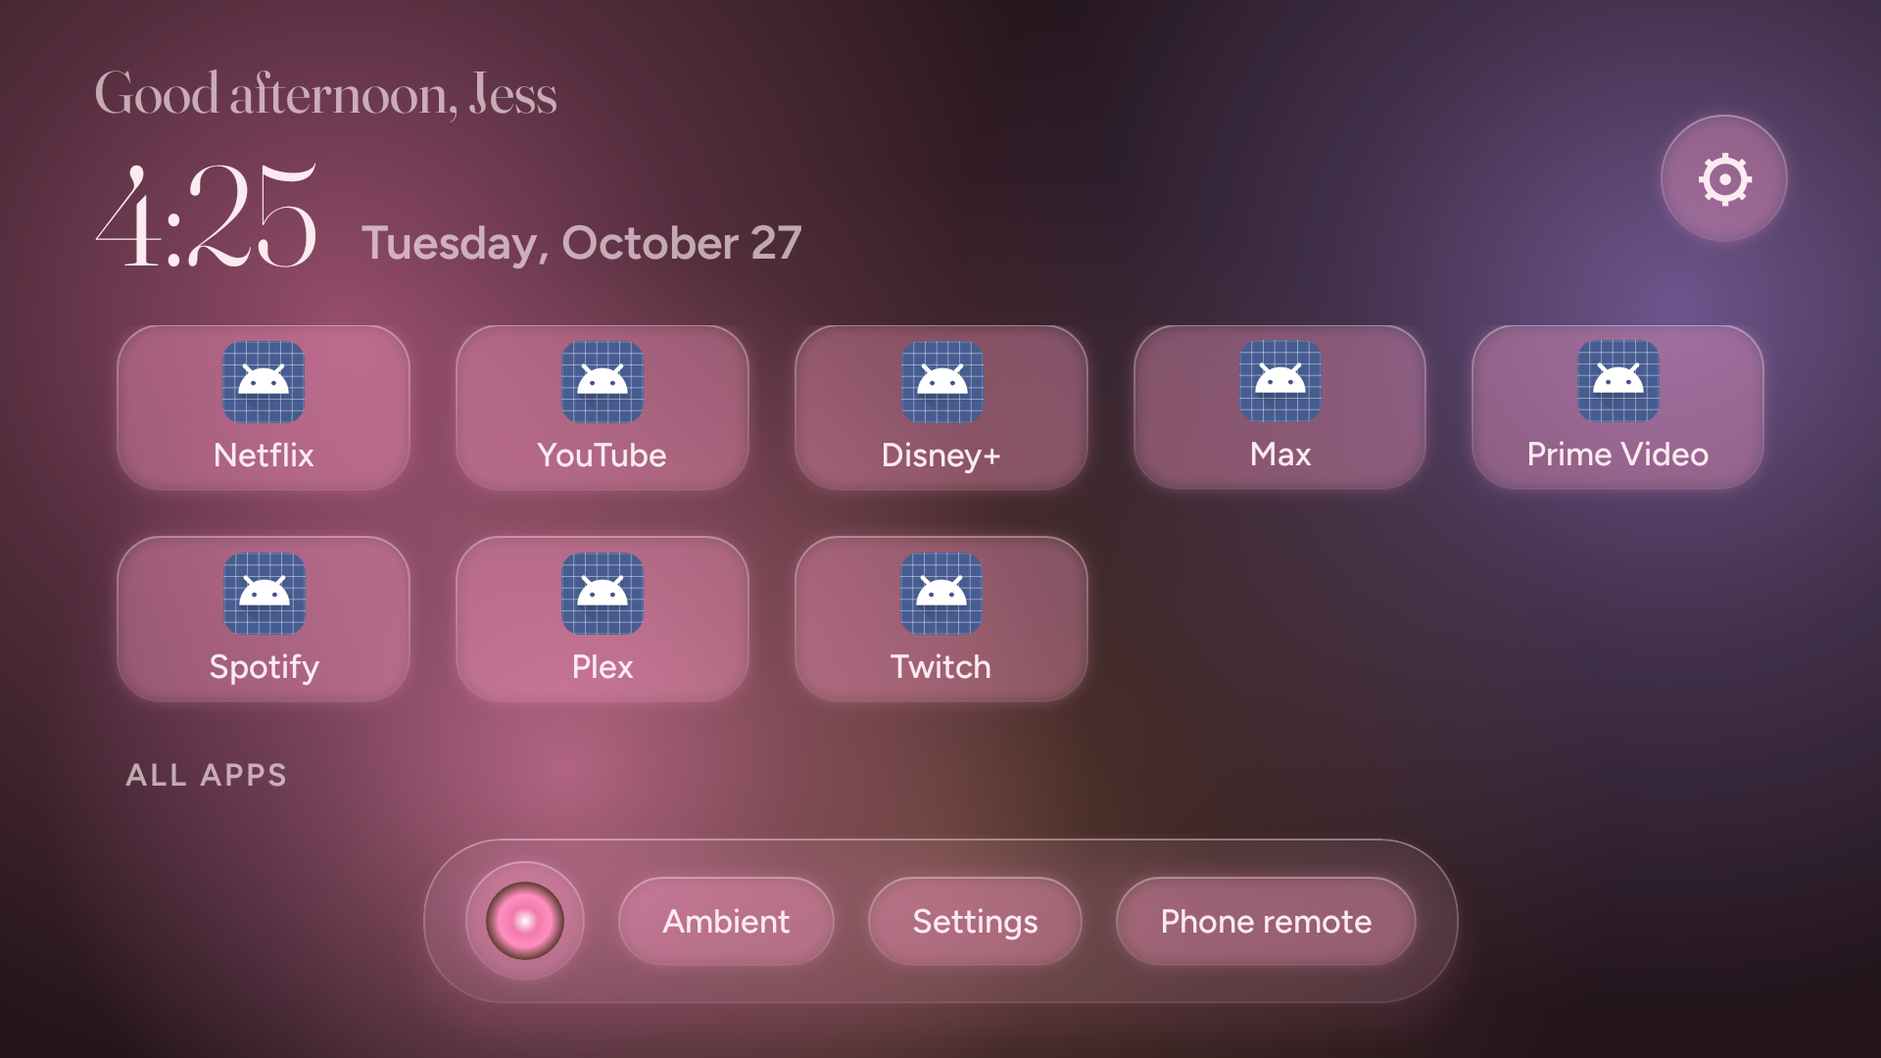
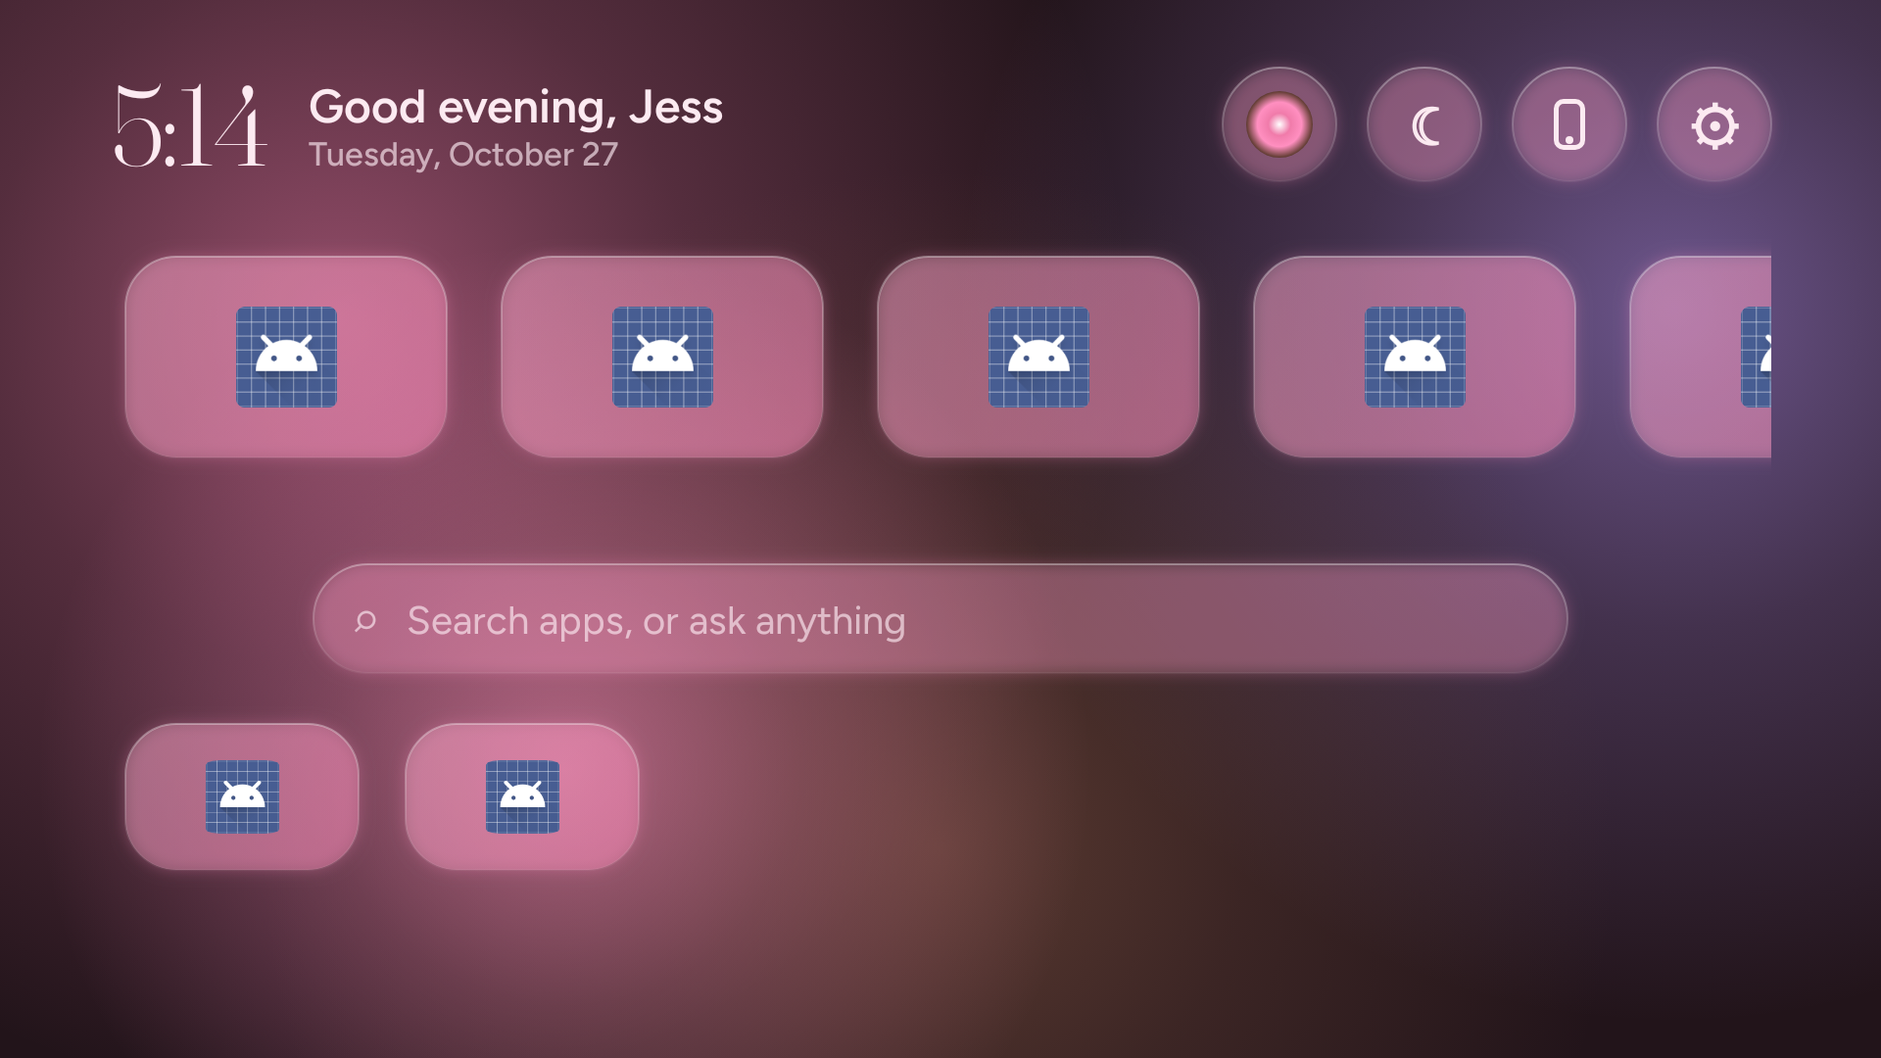
Apple TV-style home: favorite tile row, search bar underneath, control cluster
- Row of large rounded tvOS tiles; label fades in under the focused tile
- Frosted capsule search bar: live app filter, OK launches the single
  match or asks the assistant
- Remaining apps in a grid below; dock replaced by top-right controls
- Fix: initial D-pad focus (LazyRow rejected requestFocus; plain Row)
- Screenshot test now asserts the home screen opens with a tile focused

Claude-Session: https://claude.ai/code/session_01TrDrfaGBXmhcSbtgf3129r

diff --git a/app/src/main/java/dev/glasstv/launcher/ui/screens/LauncherRoot.kt b/app/src/main/java/dev/glasstv/launcher/ui/screens/LauncherRoot.kt
@@ -8,6 +8,7 @@ import androidx.compose.animation.slideInHorizontally
 import androidx.compose.animation.slideOutHorizontally
 import androidx.compose.foundation.Image
 import androidx.compose.foundation.background
+import androidx.compose.foundation.border
 import androidx.compose.foundation.layout.Arrangement
 import androidx.compose.foundation.layout.Box
 import androidx.compose.foundation.layout.Column
@@ -39,6 +40,11 @@ import androidx.compose.ui.Alignment
 import androidx.compose.ui.ExperimentalComposeUiApi
 import androidx.compose.ui.Modifier
 import androidx.compose.ui.draw.clip
+import androidx.compose.ui.focus.onFocusChanged
+import androidx.compose.ui.graphics.graphicsLayer
+import androidx.compose.foundation.horizontalScroll
+import androidx.compose.foundation.rememberScrollState
+import androidx.compose.runtime.key
 import androidx.compose.ui.focus.FocusRequester
 import androidx.compose.foundation.focusGroup
 import androidx.compose.ui.focus.focusProperties
@@ -158,6 +164,10 @@ fun LauncherRoot(app: GlassApp, ui: LauncherUi) {
     }
 }
 
+/**
+ * tvOS-style home: a row of large rounded app tiles (favorites), a frosted search bar underneath,
+ * then the rest of the apps. Controls live in a small cluster top-right instead of a dock.
+ */
 @OptIn(ExperimentalComposeUiApi::class)
 @Composable
 private fun HomeScreen(
@@ -173,105 +183,157 @@ private fun HomeScreen(
     val byPkg = remember(apps) { apps.associateBy { it.packageName } }
     val pinned = remember(pinnedPkgs, byPkg) { pinnedPkgs.mapNotNull { byPkg[it] } }
     val others = remember(pinnedPkgs, apps) { apps.filter { it.packageName !in pinnedPkgs } }
+    var query by remember { mutableStateOf("") }
+    val results = remember(query, apps) {
+        val q = query.trim().lowercase()
+        if (q.isEmpty()) emptyList() else apps.filter { it.label.lowercase().contains(q) }
+            .sortedBy { if (it.label.lowercase().startsWith(q)) 0 else 1 }
+    }
     val scope = rememberCoroutineScope()
     val gridState = rememberLazyGridState()
     val firstTile = remember { FocusRequester() }
-    var initialFocusDone by remember { mutableStateOf(false) }
 
     LaunchedEffect(apps.isNotEmpty(), interactive) {
-        if (apps.isNotEmpty() && interactive) {
-            delay(32)
-            runCatching { firstTile.requestFocus() }
-            initialFocusDone = true
-        }
+        // The row's first item may not be composed on the first frame; retry briefly.
+        if (apps.isNotEmpty() && interactive) repeat(10) { delay(50); if (runCatching { firstTile.requestFocus() }.getOrDefault(false)) return@LaunchedEffect }
     }
     LaunchedEffect(ui.homeTick) {
-        if (ui.homeTick > 0) { gridState.scrollToItem(0); runCatching { firstTile.requestFocus() } }
+        if (ui.homeTick > 0) { query = ""; gridState.scrollToItem(0); runCatching { firstTile.requestFocus() } }
     }
-
     fun togglePin(pkg: String) = scope.launch {
         app.settingsRepo.setPinned(if (pkg in pinnedPkgs) pinnedPkgs - pkg else pinnedPkgs + pkg)
+    }
+    fun submitSearch(q: String) {
+        val text = q.trim()
+        if (text.isEmpty()) return
+        val hits = apps.filter { it.label.lowercase().contains(text.lowercase()) }
+        if (hits.size == 1) { app.appRepo.launch(hits.first()); query = "" }
+        else { ui.aiOpen = true; app.assistant.send(text); query = "" }
     }
 
     Column(
         modifier
-            // While an overlay is up, D-pad focus can't wander back into the grid behind it.
-            .focusProperties { onEnter = { if (!interactive) cancelFocusChange() } }
+            // While an overlay is up, D-pad focus can't wander back into the home screen behind it.
+            .then(if (interactive) Modifier else Modifier.focusProperties { onEnter = { cancelFocusChange() } })
             .focusGroup()
-            .padding(horizontal = 48.dp, vertical = 28.dp)
+            .padding(horizontal = 56.dp, vertical = 28.dp)
     ) {
-        TopBar(settings, now, onSettings = { ui.settingsOpen = true })
-        Spacer(Modifier.height(12.dp))
-        LazyVerticalGrid(
-            columns = GridCells.Fixed(5),
-            state = gridState,
-            modifier = Modifier.weight(1f).fillMaxWidth(),
-            contentPadding = androidx.compose.foundation.layout.PaddingValues(horizontal = 12.dp, vertical = 20.dp),
-            horizontalArrangement = Arrangement.spacedBy(24.dp),
-            verticalArrangement = Arrangement.spacedBy(24.dp),
+        TopBar(settings, now, ui)
+        Spacer(Modifier.height(18.dp))
+
+        // Top row: favorites as big tvOS tiles (falls back to all apps if nothing is pinned).
+        val topRow = (if (pinned.isNotEmpty()) pinned else others).take(12)
+        // A plain scrolling Row (≤12 tiles): LazyRow rejected programmatic initial focus on its items.
+        Row(
+            horizontalArrangement = Arrangement.spacedBy(28.dp),
+            modifier = Modifier.fillMaxWidth().horizontalScroll(rememberScrollState())
+                .padding(horizontal = 8.dp, vertical = 14.dp),
         ) {
-            if (pinned.isNotEmpty()) {
-                item(span = { GridItemSpan(maxLineSpan) }, key = "h_fav", contentType = "header") { SectionHeader("FAVORITES") }
-                items(pinned, key = { "p_" + it.packageName }, contentType = { "tile" }) { a ->
-                    val mod = if (a == pinned.first()) Modifier.focusRequester(firstTile) else Modifier
-                    AppTile(app, a, mod, onLongClick = { togglePin(a.packageName) })
-                }
-            }
-            if (others.isNotEmpty()) {
-                item(span = { GridItemSpan(maxLineSpan) }, key = "h_all", contentType = "header") {
-                    SectionHeader(if (pinned.isEmpty()) "APPS" else "ALL APPS")
-                }
-                items(others, key = { "a_" + it.packageName }, contentType = { "tile" }) { a ->
-                    val mod = if (pinned.isEmpty() && a == others.first()) Modifier.focusRequester(firstTile) else Modifier
-                    AppTile(app, a, mod, onLongClick = { togglePin(a.packageName) })
-                }
+            topRow.forEach { a ->
+                key(a.packageName) { AppTile(
+                    app, a,
+                    Modifier.width(164.dp),
+                    focus = if (a == topRow.first()) firstTile else null,
+                    onLongClick = { togglePin(a.packageName) },
+                ) }
             }
         }
-        Dock(ui, Modifier.align(Alignment.CenterHorizontally))
+
+        Spacer(Modifier.height(6.dp))
+        SearchBar(
+            query = query,
+            onQuery = { query = it },
+            onSubmit = ::submitSearch,
+            modifier = Modifier.align(Alignment.CenterHorizontally).width(640.dp),
+        )
+        Spacer(Modifier.height(10.dp))
+
+        val gridApps = if (query.isNotBlank()) results else (if (pinned.isNotEmpty()) others else others.drop(12))
+        LazyVerticalGrid(
+            columns = GridCells.Fixed(6),
+            state = gridState,
+            modifier = Modifier.weight(1f).fillMaxWidth(),
+            contentPadding = androidx.compose.foundation.layout.PaddingValues(horizontal = 8.dp, vertical = 16.dp),
+            horizontalArrangement = Arrangement.spacedBy(24.dp),
+            verticalArrangement = Arrangement.spacedBy(8.dp),
+        ) {
+            if (query.isNotBlank() && results.isEmpty()) {
+                item(span = { GridItemSpan(maxLineSpan) }, key = "noresults") {
+                    GlassText(
+                        "No apps match \"${query.trim()}\". Press OK on the search bar to ask the assistant.",
+                        GlassType.body, Modifier.padding(8.dp), color = LocalGlass.current.textSoft,
+                    )
+                }
+            }
+            items(gridApps, key = { "g_" + it.packageName }, contentType = { "tile" }) { a ->
+                AppTile(app, a, Modifier.fillMaxWidth(), onLongClick = { togglePin(a.packageName) })
+            }
+        }
     }
 }
 
 @Composable
-private fun SectionHeader(text: String) {
-    GlassText(text, GlassType.section, Modifier.padding(start = 4.dp, top = 4.dp), color = LocalGlass.current.textSoft)
-}
-
-@Composable
-private fun TopBar(settings: Settings, now: LocalDateTime, onSettings: () -> Unit) {
+private fun TopBar(settings: Settings, now: LocalDateTime, ui: LauncherUi) {
     val c = LocalGlass.current
     val greeting = when (now.hour) { in 5..11 -> "Good morning"; in 12..16 -> "Good afternoon"; in 17..21 -> "Good evening"; else -> "Good night" }
     val weather = rememberWeather(settings)
     Row(Modifier.fillMaxWidth(), verticalAlignment = Alignment.CenterVertically) {
         Column(Modifier.weight(1f)) {
-            GlassText(
-                if (settings.greetingName.isBlank()) greeting else "$greeting, ${settings.greetingName}",
-                GlassType.greeting, color = c.textSoft, maxLines = 1,
-            )
             Row(verticalAlignment = Alignment.Bottom) {
-                GlassText(now.format(DateTimeFormatter.ofPattern("h:mm")), GlassType.clock, maxLines = 1)
-                Spacer(Modifier.width(20.dp))
-                GlassText(
-                    now.format(DateTimeFormatter.ofPattern("EEEE, MMMM d")), GlassType.title,
-                    Modifier.padding(bottom = 16.dp), color = c.textSoft, maxLines = 1,
-                )
-            }
-        }
-        if (weather != null) {
-            GlassPanel(padding = androidx.compose.foundation.layout.PaddingValues(horizontal = 24.dp, vertical = 14.dp)) {
-                Row(verticalAlignment = Alignment.CenterVertically) {
-                    GlassText(weather.glyph, GlassType.title.copy(fontSize = GlassType.clock.fontSize * 0.45f))
-                    Spacer(Modifier.width(14.dp))
-                    Column {
-                        GlassText("${weather.temp}°", GlassType.title)
-                        GlassText(listOf(weather.description, settings.weatherPlace.substringBefore(',')).filter { it.isNotBlank() }.joinToString(" · "), GlassType.small, color = c.textSoft, maxLines = 1)
-                    }
+                GlassText(now.format(DateTimeFormatter.ofPattern("h:mm")), GlassType.clock.copy(fontSize = GlassType.clock.fontSize * 0.8f), maxLines = 1)
+                Spacer(Modifier.width(18.dp))
+                Column(Modifier.padding(bottom = 10.dp)) {
+                    GlassText(
+                        if (settings.greetingName.isBlank()) greeting else "$greeting, ${settings.greetingName}",
+                        GlassType.title, maxLines = 1,
+                    )
+                    GlassText(
+                        listOfNotNull(
+                            now.format(DateTimeFormatter.ofPattern("EEEE, MMMM d")),
+                            weather?.let { "${it.glyph} ${it.temp}° ${it.description}" },
+                        ).joinToString("   ·   "),
+                        GlassType.label, color = c.textSoft, maxLines = 1,
+                    )
                 }
             }
-            Spacer(Modifier.width(20.dp))
         }
-        GlassButton(onClick = onSettings, shape = CircleShape, modifier = Modifier.size(64.dp)) {
-            GlassText("⚙", GlassType.title.copy(fontSize = GlassType.title.fontSize * 1.3f))
+        // Control cluster (replaces the dock): assistant · ambient · phone remote · settings.
+        Row(horizontalArrangement = Arrangement.spacedBy(16.dp), verticalAlignment = Alignment.CenterVertically) {
+            GlassButton(onClick = { ui.aiOpen = true }, shape = CircleShape, modifier = Modifier.size(58.dp)) {
+                Box(Modifier.size(34.dp).background(Brush.radialGradient(listOf(Color.White, c.pink, c.rose, c.cocoa)), CircleShape))
+            }
+            CircleIcon("☾") { ui.ambient = true }
+            GlassButton(onClick = { ui.qrOpen = true }, shape = CircleShape, modifier = Modifier.size(58.dp)) {
+                // Phone glyph drawn in-palette (the unicode options render inconsistently on TV fonts).
+                Box(Modifier.size(16.dp, 26.dp).border(2.5.dp, c.text, RoundedCornerShape(5.dp)), contentAlignment = Alignment.BottomCenter) {
+                    Box(Modifier.padding(bottom = 3.dp).size(4.dp).background(c.text, CircleShape))
+                }
+            }
+            CircleIcon("⚙") { ui.settingsOpen = true }
         }
+    }
+}
+
+@Composable
+private fun CircleIcon(glyph: String, onClick: () -> Unit) {
+    GlassButton(onClick = onClick, shape = CircleShape, modifier = Modifier.size(58.dp)) {
+        GlassText(glyph, GlassType.title.copy(fontSize = GlassType.title.fontSize * 1.15f))
+    }
+}
+
+/** Frosted capsule search bar, tvOS style. Typing filters apps live; OK/Enter launches or asks the assistant. */
+@Composable
+private fun SearchBar(query: String, onQuery: (String) -> Unit, onSubmit: (String) -> Unit, modifier: Modifier) {
+    val c = LocalGlass.current
+    Row(modifier, verticalAlignment = Alignment.CenterVertically) {
+        dev.glasstv.launcher.ui.components.GlassTextField(
+            value = query,
+            onCommit = { onSubmit(it) },
+            onChange = onQuery,
+            placeholder = "⌕   Search apps, or ask anything",
+            modifier = Modifier.weight(1f),
+            shape = RoundedCornerShape(50),
+        )
     }
 }
 
@@ -290,49 +352,45 @@ private fun rememberWeather(settings: Settings): Weather? {
     return weather
 }
 
+/** tvOS app tile: rounded artwork, label only appears under the focused tile. */
 @Composable
-private fun AppTile(app: GlassApp, tvApp: TvApp, modifier: Modifier, onLongClick: () -> Unit) {
+private fun AppTile(app: GlassApp, tvApp: TvApp, modifier: Modifier, onLongClick: () -> Unit, focus: FocusRequester? = null) {
     val c = LocalGlass.current
     var art by remember(tvApp.packageName) { mutableStateOf<AppArt?>(null) }
+    var focused by remember { mutableStateOf(false) }
     LaunchedEffect(tvApp.packageName) { art = app.appRepo.art(tvApp) }
-    GlassButton(
-        onClick = { app.appRepo.launch(tvApp) },
-        onLongClick = onLongClick,
-        modifier = modifier.fillMaxWidth().aspectRatio(16f / 9f),
-        shape = RoundedCornerShape(22.dp),
-    ) {
-        val a = art
-        when {
-            a != null && a.isBanner -> Image(
-                a.image, tvApp.label, Modifier.fillMaxSize().padding(6.dp).clip(RoundedCornerShape(16.dp)), contentScale = ContentScale.Crop,
-            )
-            else -> Column(horizontalAlignment = Alignment.CenterHorizontally, verticalArrangement = Arrangement.Center) {
-                if (a != null) Image(a.image, null, Modifier.size(42.dp).clip(RoundedCornerShape(10.dp)))
-                Spacer(Modifier.height(6.dp))
-                GlassText(tvApp.label, GlassType.label, Modifier.padding(horizontal = 10.dp), maxLines = 1)
+    Column(modifier, horizontalAlignment = Alignment.CenterHorizontally) {
+        GlassButton(
+            onClick = { app.appRepo.launch(tvApp) },
+            onLongClick = onLongClick,
+            modifier = Modifier.fillMaxWidth().aspectRatio(16f / 10f)
+                .then(if (focus != null) Modifier.focusRequester(focus) else Modifier)
+                .onFocusChanged { focused = it.isFocused },
+            shape = RoundedCornerShape(26.dp),
+            focusScale = 1.10f,
+        ) {
+            val a = art
+            when {
+                a != null && a.isBanner -> Image(
+                    a.image, tvApp.label, Modifier.fillMaxSize().clip(RoundedCornerShape(26.dp)), contentScale = ContentScale.Crop,
+                )
+                else -> Box(
+                    Modifier.fillMaxSize().background(
+                        Brush.linearGradient(listOf(c.glassFillFocused, c.pink.copy(alpha = 0.35f))), RoundedCornerShape(26.dp),
+                    ),
+                    contentAlignment = Alignment.Center,
+                ) {
+                    if (a != null) Image(a.image, null, Modifier.fillMaxSize(0.5f).clip(RoundedCornerShape(18.dp)), contentScale = ContentScale.Fit)
+                    else GlassText(tvApp.label.take(1), GlassType.greeting)
+                }
             }
         }
-    }
-}
-
-@Composable
-private fun Dock(ui: LauncherUi, modifier: Modifier) {
-    val c = LocalGlass.current
-    Row(
-        modifier.glassPanel(RoundedCornerShape(40.dp), elevation = 8.dp).padding(horizontal = 22.dp, vertical = 12.dp),
-        horizontalArrangement = Arrangement.spacedBy(18.dp),
-        verticalAlignment = Alignment.CenterVertically,
-    ) {
-        GlassButton(onClick = { ui.aiOpen = true }, shape = CircleShape, modifier = Modifier.size(60.dp)) {
-            Box(
-                Modifier.size(40.dp).background(
-                    Brush.radialGradient(listOf(Color.White, c.pink, c.rose, c.cocoa)), CircleShape,
-                )
-            )
-        }
-        PillButton("Ambient", { ui.ambient = true })
-        PillButton("Settings", { ui.settingsOpen = true })
-        PillButton("Phone remote", { ui.qrOpen = true })
+        // Label: tvOS shows it only for the focused tile; the space is reserved so nothing jumps.
+        val alpha by androidx.compose.animation.core.animateFloatAsState(if (focused) 1f else 0f, label = "label")
+        GlassText(
+            tvApp.label, GlassType.label,
+            Modifier.padding(top = 14.dp).graphicsLayer { this.alpha = alpha }, maxLines = 1,
+        )
     }
 }
 

diff --git a/app/src/main/java/dev/glasstv/launcher/ui/components/GlassTextField.kt b/app/src/main/java/dev/glasstv/launcher/ui/components/GlassTextField.kt
@@ -40,6 +40,7 @@ fun GlassTextField(
     placeholder: String,
     modifier: Modifier = Modifier,
     onChange: ((String) -> Unit)? = null,
+    shape: androidx.compose.ui.graphics.Shape = RoundedCornerShape(18.dp),
 ) {
     val c = LocalGlass.current
     var editing by remember { mutableStateOf(false) }
@@ -83,7 +84,7 @@ fun GlassTextField(
                     .fillMaxWidth()
                     .focusRequester(fieldFocus)
                     .onFocusChanged { if (!it.isFocused && editing) { commit(text.text); editing = false } }
-                    .glassPanel(RoundedCornerShape(18.dp), 4.dp)
+                    .glassPanel(shape, 4.dp)
                     .padding(horizontal = 20.dp, vertical = 14.dp),
             )
         } else {
@@ -92,7 +93,7 @@ fun GlassTextField(
             }
             GlassButton(
                 onClick = { editing = true },
-                shape = RoundedCornerShape(18.dp),
+                shape = shape,
                 focusScale = 1.03f,
                 modifier = Modifier.fillMaxWidth().focusRequester(buttonFocus),
             ) {

diff --git a/app/src/test/java/dev/glasstv/launcher/TvScreensTest.kt b/app/src/test/java/dev/glasstv/launcher/TvScreensTest.kt
@@ -13,6 +13,7 @@ import android.graphics.RectF
 import android.graphics.Typeface
 import android.graphics.drawable.BitmapDrawable
 import androidx.compose.ui.test.junit4.createAndroidComposeRule
+import androidx.compose.ui.test.assertCountEquals
 import androidx.compose.ui.test.onRoot
 import androidx.test.core.app.ApplicationProvider
 import com.github.takahirom.roborazzi.captureRoboImage
@@ -72,6 +73,8 @@ class TvScreensTest {
         androidx.test.platform.app.InstrumentationRegistry.getInstrumentation().setInTouchMode(false) // TVs have no touch mode
         compose.runOnUiThread { compose.activity.ui.qrOpen = false }
         shot("tv-home-light")
+        // Regression guard: the home screen must open with a tile focused (D-pad users need a starting point).
+        compose.onAllNodes(androidx.compose.ui.test.isFocused()).assertCountEquals(1)
         compose.runOnUiThread { compose.activity.ui.aiOpen = true }
         shot("tv-assistant-light")
         compose.runOnUiThread { compose.activity.ui.aiOpen = false; compose.activity.ui.settingsOpen = true }

diff --git a/README.md b/README.md
@@ -36,10 +36,10 @@ Regenerate: `./gradlew :app:testDebugUnitTest -PtvScreens --tests '*TvScreensTes
 
 | | |
 |---|---|
-| **Home** | Greeting with an optional name, large Fraunces clock and date, Open-Meteo weather (no key), settings gear. Grid of glass tiles using each app's real TV banner or icon. Favorites first. |
+| **Home** | tvOS-style: clock and greeting, a row of large rounded favorite tiles (name appears under the focused one), a frosted search bar underneath (filters apps live; OK launches or asks the assistant), then all other apps. Controls (assistant, ambient, phone remote, settings) sit top-right. |
 | **Apps** | All leanback apps, then phone-only launcher apps. Live updates on install/uninstall. Default favorites are whichever of Netflix, YouTube, Disney+, Max, Prime Video, Spotify, Plex and Twitch are installed. **Long-press OK** on a tile to pin or unpin it. Reorder in Settings. |
 | **Focus** | Focused tile scales 1.08× with a solid rose ring and a pink glow. |
-| **Dock** | AI orb · Ambient · Settings · Phone remote. |
+
 | **Assistant** | Glass sheet slides in from the right. Streams from Ollama. Quick-prompt chips. "open Netflix" style commands run locally. Plain-language error card with the fix when the PC is unreachable. |
 | **Phone remote** | Pink-glass web remote with app **shortcuts** (real icons) and quick actions (Assistant, Ambient, Settings), plus D-pad, OK, back, home, media keys, volume, touchpad, keyboard and dictation. WebSocket with auto-reconnect. 4-digit pairing, remembered phones, revoke in Settings. |
 | **Ambient** | After 3 idle minutes: a big clock over the drifting orbs. Any button wakes it. |
